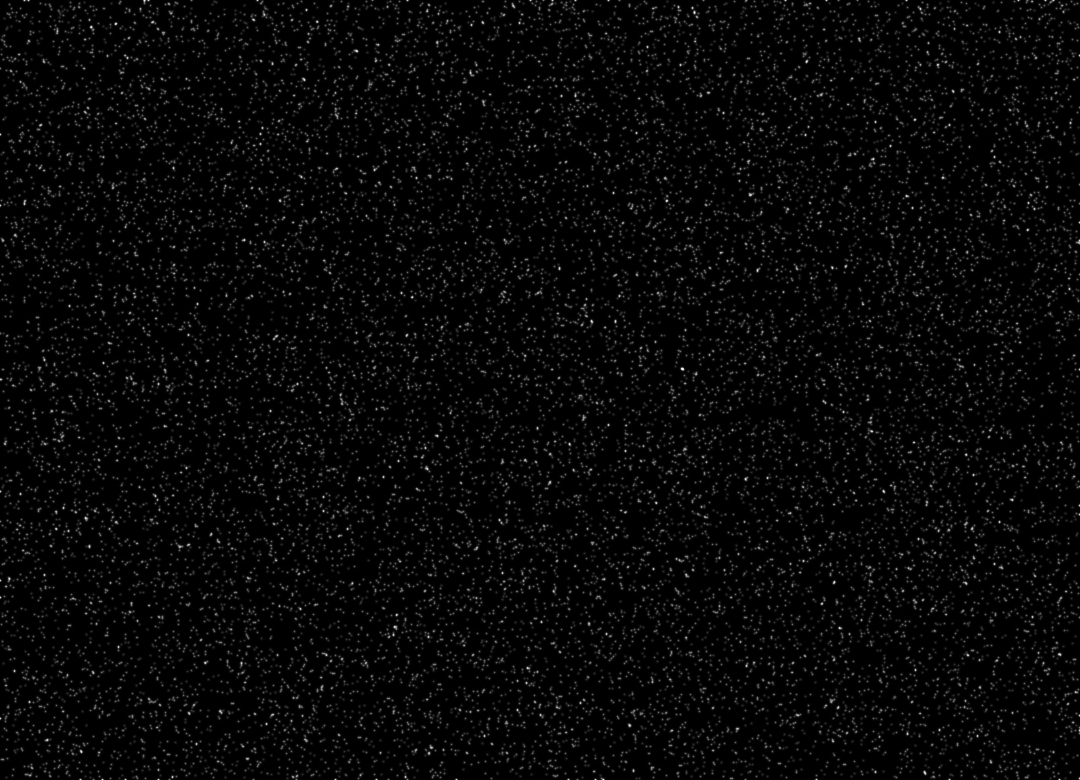
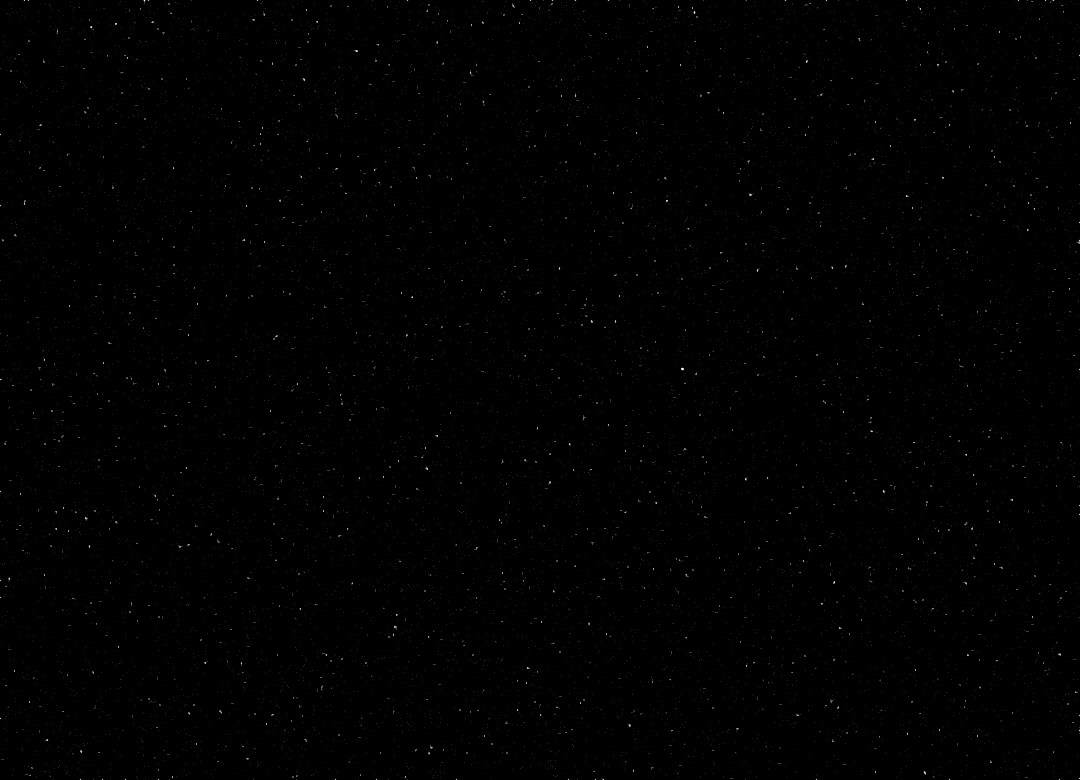
changed background

diff --git a/src/Game/MainView.java b/src/Game/MainView.java
@@ -40,6 +40,7 @@ public class MainView extends EnigView {
 
 	public SpriteButton ttoGUIButton;
 
+	public Texture frontStars;
 	public Texture ttoGUI;
 	public Texture keyTexture;
 	public Texture[] spriteTexture;
@@ -102,6 +103,11 @@ public class MainView extends EnigView {
 		inventoryShader = new ShaderProgram("inventoryShaders");
 		backgroundShader = new ShaderProgram("backgroundShader");
 		
+		frontStars = new Texture("res/frontstars.png");
+		frontStars.bind();
+		glTexParameteri(GL_TEXTURE_2D, GL_TEXTURE_WRAP_S, GL_REPEAT);
+		glTexParameteri(GL_TEXTURE_2D, GL_TEXTURE_WRAP_T, GL_REPEAT);
+		Texture.unbind();
 		starBackground = new Texture("res/stars.png");
 		starBackground.bind();
 		glTexParameteri(GL_TEXTURE_2D, GL_TEXTURE_WRAP_S, GL_REPEAT);
@@ -291,9 +297,17 @@ public class MainView extends EnigView {
 			FBO.prepareDefaultRender();
 			
 			backgroundShader.enable();
-			backgroundShader.shaders[2].uniforms[0].set(backgroundOffset);
+			backgroundShader.shaders[2].uniforms[0].set(backgroundOffset.mul(0.5f, new Vector2f()));
 			starBackground.bind();
-			screenVAO.fullRender();
+			screenVAO.prepareRender();
+			screenVAO.drawTriangles();
+			frontStars.bind();
+			backgroundShader.shaders[2].uniforms[0].set(backgroundOffset);
+			screenVAO.drawTriangles();
+			screenVAO.unbind();
+			
+			
+			
 			currentLevel.render(cam);
 			LevelBase.levelProgram.shaders[0].uniforms[0].set(cam.getCameraMatrix(cam.x, cam.y, 0));
 			spriteTexture[0].bind();
@@ -321,7 +335,12 @@ public class MainView extends EnigView {
 			backgroundShader.enable();
 			backgroundShader.shaders[2].uniforms[0].set(backgroundOffset);
 			starBackground.bind();
-			screenVAO.fullRender();
+			screenVAO.prepareRender();
+			screenVAO.drawTriangles();
+			frontStars.bind();
+			backgroundShader.shaders[2].uniforms[0].set(backgroundOffset.mul(0.5f, new Vector2f()));
+			screenVAO.drawTriangles();
+			screenVAO.unbind();
 			
 			backgroundVelocity.mul(0.99f);
 			backgroundVelocity.add((float) (delta_time * 0.000007f * (Math.random() - 0.5)), (float) (delta_time * 0.000007f * (Math.random() - 0.5)));
